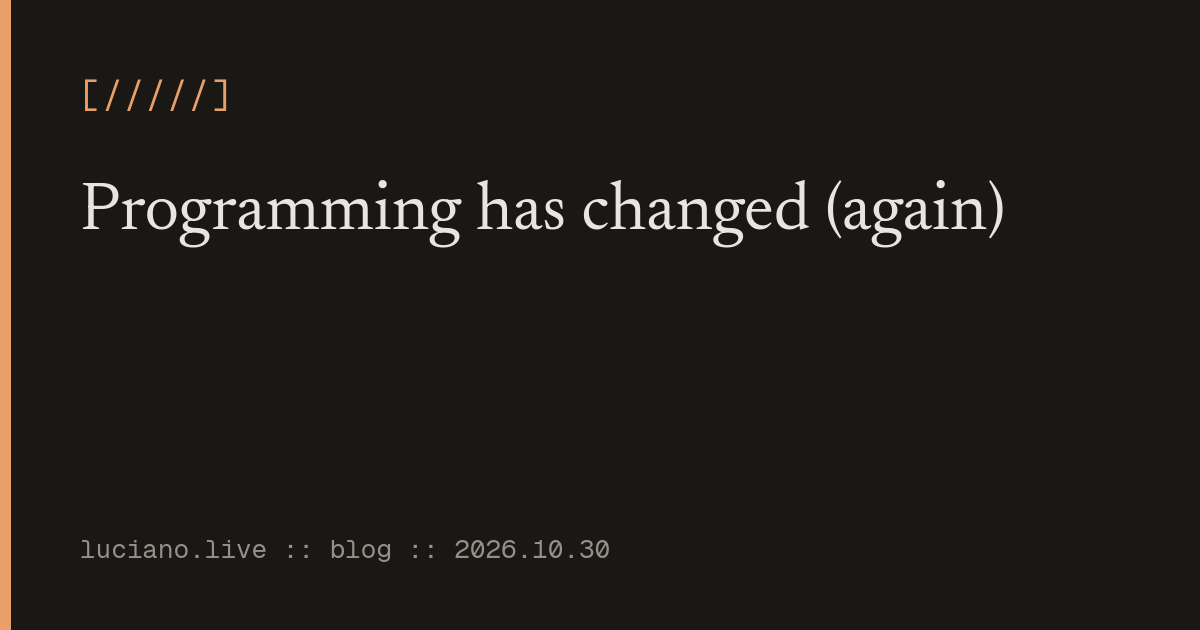
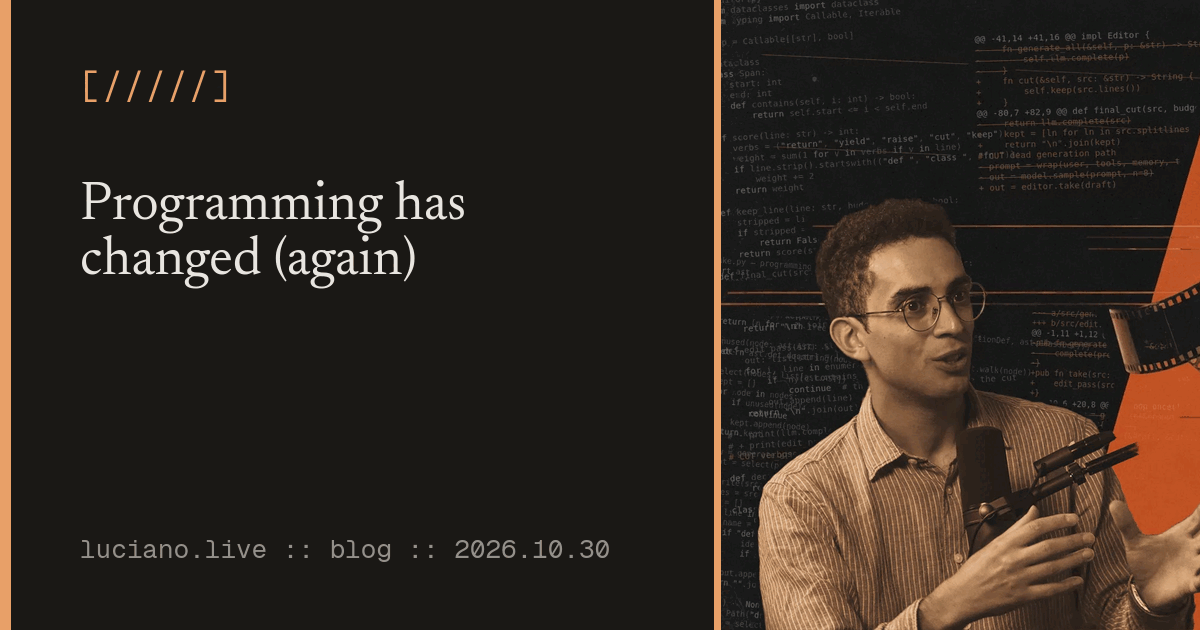
programming-has-changed-again: podcast cover + photo, og card cover_focus

Changed region(s): [[0.0617, 0.0, 1.0, 1.0], [0.0617, 0.1206, 0.185, 0.181], [0.9867, 0.1508, 1.0, 0.181]]

diff --git a/scripts/stage.py b/scripts/stage.py
@@ -17,6 +17,7 @@ Vault front matter (plain Obsidian YAML, all optional except title):
     tags: [AI, Python]
     cover: /assets/img/<slug>/hero.webp
     cover_alt: Alt text for the cover
+    cover_focus: west            # optional: which side of the cover the og:image card keeps
     updated: 2026-10-01
     slug: custom-slug          # default: slugified title
     ---
@@ -34,7 +35,7 @@ What gets translated:
                                  additions / retractions, e.g. "> [!update] 12 Oct 2026"
   > [!note] Title             -> blockquote with a bold title
   ==highlight==               -> <mark>highlight</mark>
-  tags / cover / cover_alt    -> taxonomies.tags / extra.cover / extra.cover_alt
+  tags / cover / cover_alt    -> taxonomies.tags / extra.cover / extra.cover_alt (+ cover_focus)
 """
 
 from __future__ import annotations
@@ -255,7 +256,7 @@ def zola_front_matter(fm: dict, tags: list[str]) -> str:
     out.setdefault("draft", True)
     if tags:
         out["taxonomies"] = {"tags": tags}
-    extra = {k: fm[k] for k in ("cover", "cover_alt") if fm.get(k)}
+    extra = {k: fm[k] for k in ("cover", "cover_alt", "cover_focus") if fm.get(k)}
     if extra:
         out["extra"] = extra
     return "---\n" + yaml.safe_dump(out, sort_keys=False, allow_unicode=True, default_flow_style=None) + "---\n\n"

diff --git a/scripts/gen-og-cards.py b/scripts/gen-og-cards.py
@@ -21,7 +21,7 @@ MUTED = "#94908a"
 ACCENT = "#e8a068"
 
 
-def render(slug: str, title: str, date: str, cover: str | None = None) -> None:
+def render(slug: str, title: str, date: str, cover: str | None = None, focus: str = "center") -> None:
     dest = OUT / f"{slug}.png"
     footer = f"luciano.live :: blog :: {date}"
 
@@ -37,7 +37,7 @@ def render(slug: str, title: str, date: str, cover: str | None = None) -> None:
             "-resize",
             "480x630^",
             "-gravity",
-            "center",
+            focus,
             "-extent",
             "480x630",
             ")",
@@ -137,6 +137,8 @@ def main() -> None:
             fm["title"],
             str(fm.get("date", "")).replace("-", "."),
             fm.get("extra", {}).get("cover"),
+            # which part of a wide cover to keep in the narrow card column
+            fm.get("extra", {}).get("cover_focus", "center"),
         )
 
 

diff --git a/content/blog/programming-has-changed-again.md b/content/blog/programming-has-changed-again.md
@@ -7,10 +7,16 @@ description: The developer is becoming an editor — some thoughts, following my
   what programming means.
 taxonomies:
   tags: [AI, Programming]
+extra: {cover: /assets/img/programming-has-changed-again/cover.webp, cover_alt: 'Collage
+    of me and Pete talking at the podcast mics, over code, film strips and scissors
+    on orange shapes', cover_focus: west}
 ---
 
 I always wanted to write about my thoughts on how the way we program has drastically changed in the past year.
 This can be considered an extension of [episode #2 of the ExpressVPN Research Engineering Podcast](https://open.spotify.com/episode/6gMsXH0CLYiTqSDCKi3LZM), to which I was honored to be invited.
+
+{{ <img src="/assets/img/programming-has-changed-again/expressvpn-podcast.webp" alt="Recording episode #2 of the ExpressVPN Research Engineering Podcast" /> }}
+
 In this post, I am trying to put together some thoughts I have had over the past month. Giving them a consistent narrative was not easy, since the "narrative" itself on this topic has been changing rapidly — and I am not able to write about it as fast as I would like. 
 Some parts of this post may be controversial and I accept that. I understand that people have different points of view and I'm happy to compare mine with others'. These are my own views at the time of writing, and they might change as things evolve. 
 
